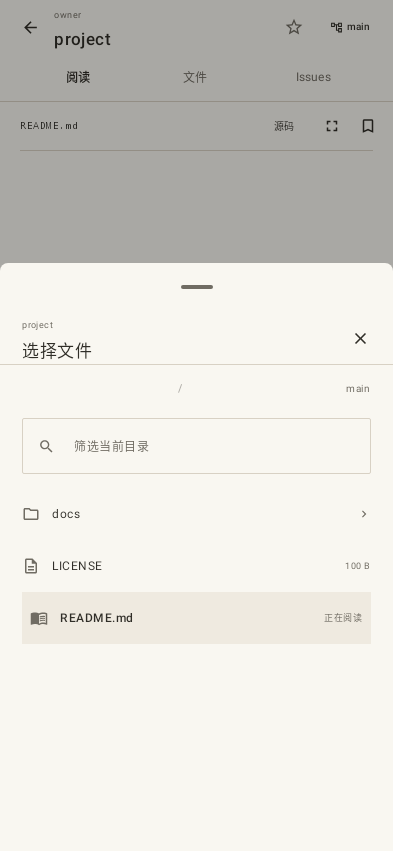
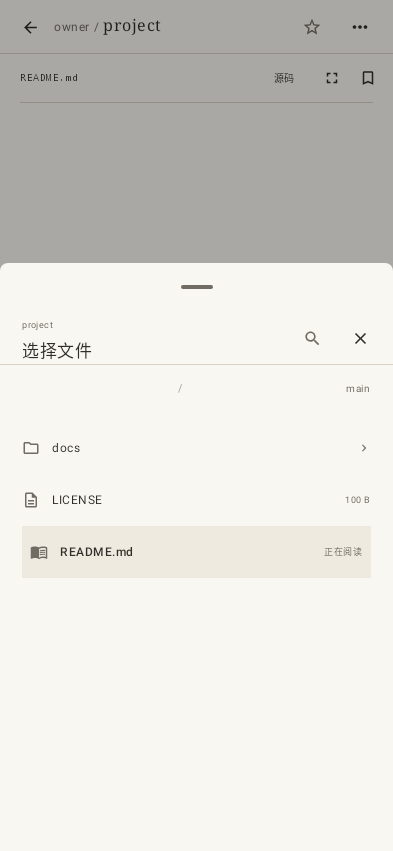
docs: refresh file picker screenshot for Grove 0.5.0

diff --git a/docs/screenshots/README.md b/docs/screenshots/README.md
@@ -1,6 +1,10 @@
 # 界面图
 
-`recent-projects.png`、`favorites-search.png`、`discovery.png`、`profile.png`、`profile-more.png` 和 `file-picker.png` 来自 0.4.1 的 Compose / Robolectric 原生图形测试，使用测试账号与示例项目，不含真实用户数据。它们展示实际 Compose 页面，仍不能替代真机验收；WebView 文档内容需在设备中验证。
+`recent-projects.png`、`favorites-search.png`、`discovery.png`、`profile.png` 和 `profile-more.png` 来自 0.4.1 的 Compose / Robolectric 原生图形测试。
+
+`file-picker.png` 已更新为 0.5.0 的实际选文件面板：搜索默认收起，点击搜索图标展开；仓库标题为单行，分支与 Issues 位于右上角更多菜单。
+
+以上图片使用测试账号与示例项目，不含真实用户数据。它们展示实际 Compose 页面，仍不能替代真机验收；WebView 文档内容需在设备中验证。
 
 README 使用 `overview.png` 展示四页叠放的效果，发现页置于前景。布局源文件为 `../product-overview.html`；截图内容保持原样，通过 HTML / CSS 排版生成组合图。
 
@@ -8,7 +12,8 @@ README 使用 `overview.png` 展示四页叠放的效果，发现页置于前景
 
 ```sh
 ./gradlew :app:testDebugUnitTest --tests '*ProfileRepositoriesUiTest'
-./gradlew :app:testDebugUnitTest --tests '*FilePickerUiTest'
+./gradlew :app:testDebugUnitTest --tests 'dev.grove.reader.FilePickerUiTest.bottomFilesOpensPickerWhileKeepingReaderAndDocument'
+cp app/build/reports/ui/file-picker-search-collapsed-v14.png docs/screenshots/file-picker.png
 ```
 
-生成的原图位于 `app/build/reports/ui/`。更新这些 PNG 后，用 Chromium 在 1200 × 700、2 倍像素密度下打开 `docs/product-overview.html`，截取整个页面保存为此目录的 `overview.png`。
+生成的原图位于 `app/build/reports/ui/`。更新四个首页 PNG 后，用 Chromium 在 1200 × 700、2 倍像素密度下打开 `docs/product-overview.html`，截取整个页面保存为此目录的 `overview.png`。
